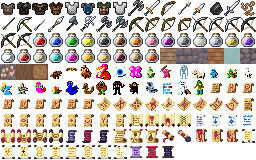
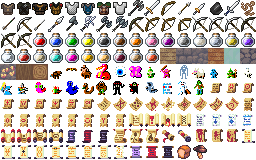
The food ration is a loaf and the slime-mold a mushroom: two 16px sprites in assets/food, written to assets/tiles/food.rec by mktiles.py and cut onto tiles16.png (remap_food.sh re-maps them); the game reads food.rec, and the two VoxelLib 8px food looks leave items.rec

Changed region(s): [[0.6875, 0.9062, 0.8125, 1.0]]

diff --git a/assets/tiles/mktiles.py b/assets/tiles/mktiles.py
@@ -4,9 +4,10 @@ rec files that say which cell each game id uses. The sheets hold only
 what the game draws; ids are the game's own names (a potion by its
 colour, a ring by its stone, a wall by where it stands):
 
-  tiles8.png   items.rec     %rec: item    rings, food, wands, gold, the Amulet (written whole)
+  tiles8.png   items.rec     %rec: item    rings, wands, gold, the Amulet (written whole)
   tiles16.png  gear.rec      %rec: gear    the armour: hand-written records, each naming its picture
                potions.rec   %rec: potion  Rogue's potion colours: hand-written, each an rgb tinting the potion sprite
+               food.rec      %rec: food    the food ration (bread) and the slime-mold (assets/food)
                scrolls.rec   %rec: scroll  the scroll looks (assets/scrolls, BigWander's Art of Scrolls), a game's scroll kinds draw theirs from them
                weapons.rec   %rec: weapon  the weapons and their pictures in use (%rec: frame): hand-written, each naming its picture
                textures.rec  %rec: block   the room's and the corridor's floor, wall and ceiling, light, trap, stairs, door frame
@@ -156,7 +157,7 @@ def item(rid, sprite, name=None):
 items = []
 for j, s in enumerate(golist(rules, 'stones')):  # a ring looks like its stone
     items.append(item(s + ' ring', f'ring_{j % 18 + 1:02d}'))
-items += [item('food ration', 'misc_01'), item('slime-mold', 'misc_21'), item('staff', 'staff_01'), item('wand', 'staff_10'),
+items += [item('staff', 'staff_01'), item('wand', 'staff_10'),
           item('gold', 'valuable_09'), item('amulet of yendor', 'amulet_01', 'the Amulet of Yendor')]
 t8.save()
 t8.rec(os.path.join(HERE, 'items.rec'), 'Items', 'item', items)
@@ -198,7 +199,10 @@ for m in re.finditer(r'^# tile \d+ \((.*?)\).*\n\{\n((?:  .{16}\n){16})\}', txt,
 SCROLLS = os.path.join(ROOT, 'assets', 'scrolls')
 scrolls = [(f'scroll {i}', f'scroll (look {i})', t16.add('s:' + f, rgba(os.path.join(SCROLLS, f))))
            for i, f in enumerate(sorted(f for f in os.listdir(SCROLLS) if f.endswith('.png')), 1)]
+FOOD = os.path.join(ROOT, 'assets', 'food')
+food = [(rid, rid, t16.add('f:' + f, rgba(os.path.join(FOOD, f + '.png')))) for rid, f in [('food ration', 'bread'), ('slime-mold', 'slime-mold')]]
 t16.save()
+t16.rec(os.path.join(HERE, 'food.rec'), 'Food', 'food', food)
 t16.rec(os.path.join(HERE, 'scrolls.rec'), 'Scroll looks', 'scroll', scrolls)
 t16.rec(os.path.join(HERE, 'textures.rec'), 'Block textures', 'block', blocks)
 t16.rec(os.path.join(HERE, 'monsters.rec'), 'Monsters', 'monster', monsters)

diff --git a/tiles.go b/tiles.go
@@ -161,7 +161,7 @@ func (s *sheetTextures) TextureFrames(name string) ([]image.Image, int, error) {
 func loadSprites(dir string) ([]string, []image.Image, error) {
 	var names []string
 	var imgs []image.Image
-	for _, f := range []struct{ rec, prefix string }{{"items.rec", ""}, {"gear.rec", ""}, {"potions.rec", ""}, {"scrolls.rec", ""}, {"weapons.rec", "w:"}, {"monsters.rec", "m:"}} {
+	for _, f := range []struct{ rec, prefix string }{{"items.rec", ""}, {"gear.rec", ""}, {"potions.rec", ""}, {"food.rec", ""}, {"scrolls.rec", ""}, {"weapons.rec", "w:"}, {"monsters.rec", "m:"}} {
 		tiles, err := loadTiles(filepath.Join(dir, f.rec))
 		if err != nil {
 			return nil, nil, err
